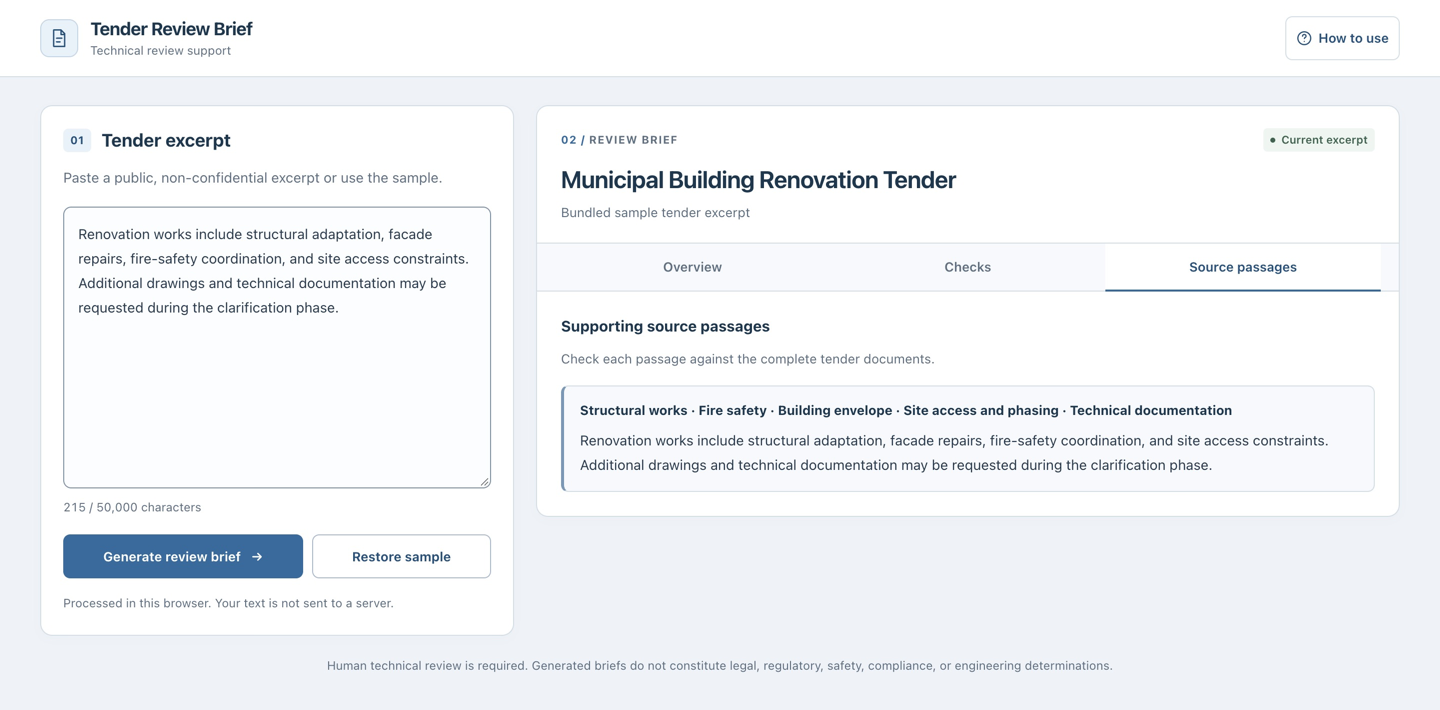
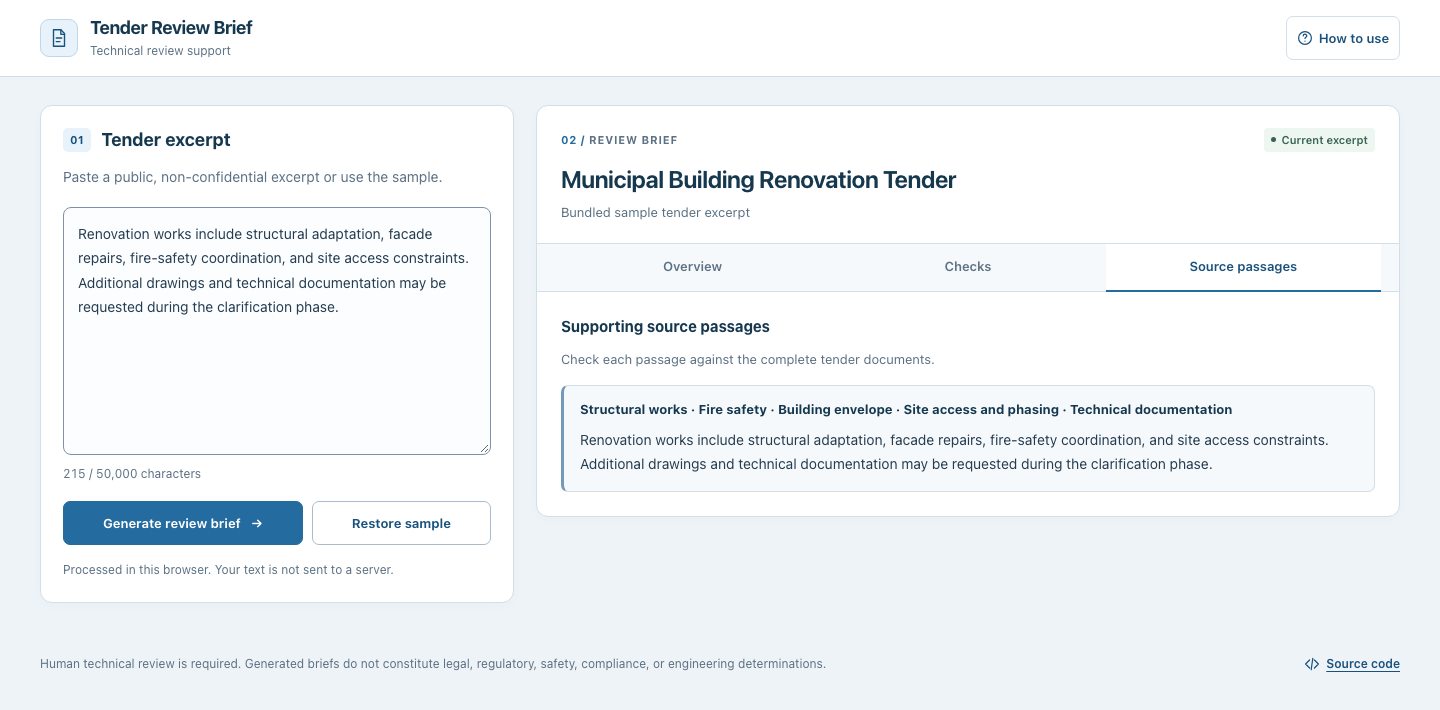
docs: update screenshots and checks for the application links
The README screenshots showed the centered disclaimer from before
the Source code link was added. The browser guide covered the help
dialog without the short-window and application-link checks.

The new screenshots show the footer with the bundled overview and
source passages. The guides now describe the two links, the help
dialog at 200% text size, and the local browser run in Chromium,
Firefox, and WebKit. The changelog describes the link and icon.

diff --git a/docs/testing-evidence.md b/docs/testing-evidence.md
@@ -91,7 +91,7 @@ For fixtures containing tabs, Unicode separators, or long padding, the commands 
 
 15. At 640 × 360 pixels, open the guide, scroll to the documentation link, close it, and reopen it. The first step must appear below the header again. Select text inside the guide and release the pointer outside it: the guide must remain open. Repeat with a press on the backdrop and release inside the guide. A normal click on the backdrop must still dismiss it.
 
-16. At widths of 320 and 390 pixels, enlarge the text to 200%. For a repeatable check, run `document.documentElement.style.fontSize = '200%'` in the DevTools Console. The application title and subtitle must remain readable without overlapping **How to use** or causing horizontal overflow. Result tabs may wrap onto another row, but individual words must stay whole and Arrow, Home, and End navigation must still work. The **01** label must stay on one line. Open and close the guide to check that its control remains usable. Run `document.documentElement.style.removeProperty('font-size')` afterwards to restore normal text sizing.
+16. At widths of 320 and 390 pixels, enlarge the text to 200%. For a repeatable check, run `document.documentElement.style.fontSize = '200%'` in the DevTools Console. The application title and subtitle must remain readable without overlapping **How to use** or causing horizontal overflow. Result tabs may wrap onto another row, but individual words must stay whole and Arrow, Home, and End navigation must still work. The **01** label must stay on one line. At 320 × 320 pixels, open **How to use** and Tab to **Full documentation on GitHub**. The whole link must be visible below the title and close button. Close the guide and run `document.documentElement.style.removeProperty('font-size')` to restore normal text sizing.
 
 17. Enable forced colors using a system contrast theme or browser emulation. Focus **Overview**, press Right Arrow to select **Checks**, then press Tab to focus its panel. Only **Checks** should have the selected underline. Press Shift+Tab to return to the tab and check that its focus outline and selected underline are both visible.
 
@@ -106,5 +106,7 @@ For fixtures containing tabs, Unicode separators, or long padding, the commands 
     Open **Source passages**. The tab should show **No matching source passages** with a prompt to review the complete documents. Reload and reopen the tab to check that the empty state is restored.
 
     Replace the excerpt with `Fire-safety drawings must be checked.` and check that **Excerpt changed** appears while the empty-state message still refers to the text used for the previous brief. Generate again and check that **Source passages** quotes the fire-safety requirement.
+
+19. With the bundled overview at 1440 × 1000 pixels, look for **Source code** on the right near the bottom of the page. At 320 pixels wide, it must appear below the disclaimer on the left. The link opens the repository in a new tab. In **How to use**, the link with the document icon opens [Review a tender excerpt](../README.md#review-a-tender-excerpt) in a new tab.
 
 Paragraph context is a text-boundary policy. These checks do not establish that all conditions elsewhere in the tender have been captured or that the keyword matcher understands exclusions.

diff --git a/docs/development.md b/docs/development.md
@@ -42,11 +42,13 @@ npm run test:browser
 
 The browser command starts a temporary preview at `http://127.0.0.1:4188/tender-review-brief/`. Keep port 4188 available. On Linux, use `npx playwright install --with-deps chromium` when system dependencies are missing. See [Playwright browser installation](https://playwright.dev/docs/browsers) for details.
 
+For a local run in Chromium, Firefox, and WebKit, install the two additional engines with `npx playwright install firefox webkit`, run `npm run build`, then run `npx playwright test --browser all`.
+
 The tests cover desktop layout, mobile navigation and editor text size, and keyboard-operated result tabs, including selection in forced colors. Desktop checks cover regeneration after scrolling through long passages and access to controls when a resized editor shows a validation error. Dialog checks cover focus and cancellation when restoring the sample, along with dismissal, reopening after scrolling, and text selection in the help guide.
 
 Saved-result checks cover edits, reloads, regeneration, and older briefs. They verify that brief generation works when access to `sessionStorage` is blocked. When a simulated quota error prevents saving either the updated excerpt or brief, the tests check for **Excerpt changed** after reload. Source-passage checks cover the empty state for unmatched excerpts, visible whitespace, Unicode line breaks, disclosure reset, and 320-pixel-wide layouts.
 
-Enlarged-text checks at 320 and 390 pixels verify that the application header stays readable and tab labels do not break within words.
+Enlarged-text checks at 320 and 390 pixels verify that the header stays readable and tab labels keep whole words. Separate checks cover the footer link's placement and the visibility of the focused documentation link in a short help dialog.
 
 Playwright keeps a trace in `test-results/` when a browser test fails. See [manual browser checks](testing-evidence.md) for additional checks in other browsers.
 

diff --git a/CHANGELOG.md b/CHANGELOG.md
@@ -7,9 +7,9 @@ the excerpt editor beside the generated brief on wider screens.
 
 ### Changed
 
-- Link to the GitHub repository from the footer.
-- Open a short How to use guide inside the application, with keyboard-accessible
-  modal controls and a link to the full documentation on GitHub.
+- Add a **Source code** link to the application footer.
+- Open a short **How to use** guide in the application, with keyboard-accessible
+  controls and a document icon beside the link to the full documentation on GitHub.
 - Place the editor beside the brief on desktop, with a compact application bar
   and Overview, Checks, and Source passages tabs. On narrow screens, move to the
   generated result and provide a link back to editing.
@@ -39,7 +39,8 @@ the excerpt editor beside the generated brief on wider screens.
 - Start the help guide at its first step when reopened. Keep text-selection and
   cross-boundary pointer gestures from dismissing it accidentally.
 - Keep Tab navigation within the help guide and return focus to **How to use**
-  when the guide closes, including in WebKit.
+  when the guide closes, including in WebKit. Keep the focused documentation
+  link visible on short screens with enlarged text.
 - Bring an off-screen result header back into view after desktop regeneration.
   Keep the editor's controls reachable when textarea resizing or input errors
   make the panel too tall to remain pinned.

diff --git a/README.md b/README.md
@@ -87,7 +87,7 @@ Human technical review is required. Generated briefs do not constitute legal, re
 
 ## Releases and support
 
-**Source code** in the footer opens the GitHub repository.
+**Source code** in the application footer opens the GitHub repository in a new tab.
 
 See the [changelog](CHANGELOG.md) and [GitHub Releases](https://github.com/NikolayAir/tender-review-brief/releases) for versioned release notes. Documentation on `main` describes current development; use the documentation at a release tag for that version.
 
